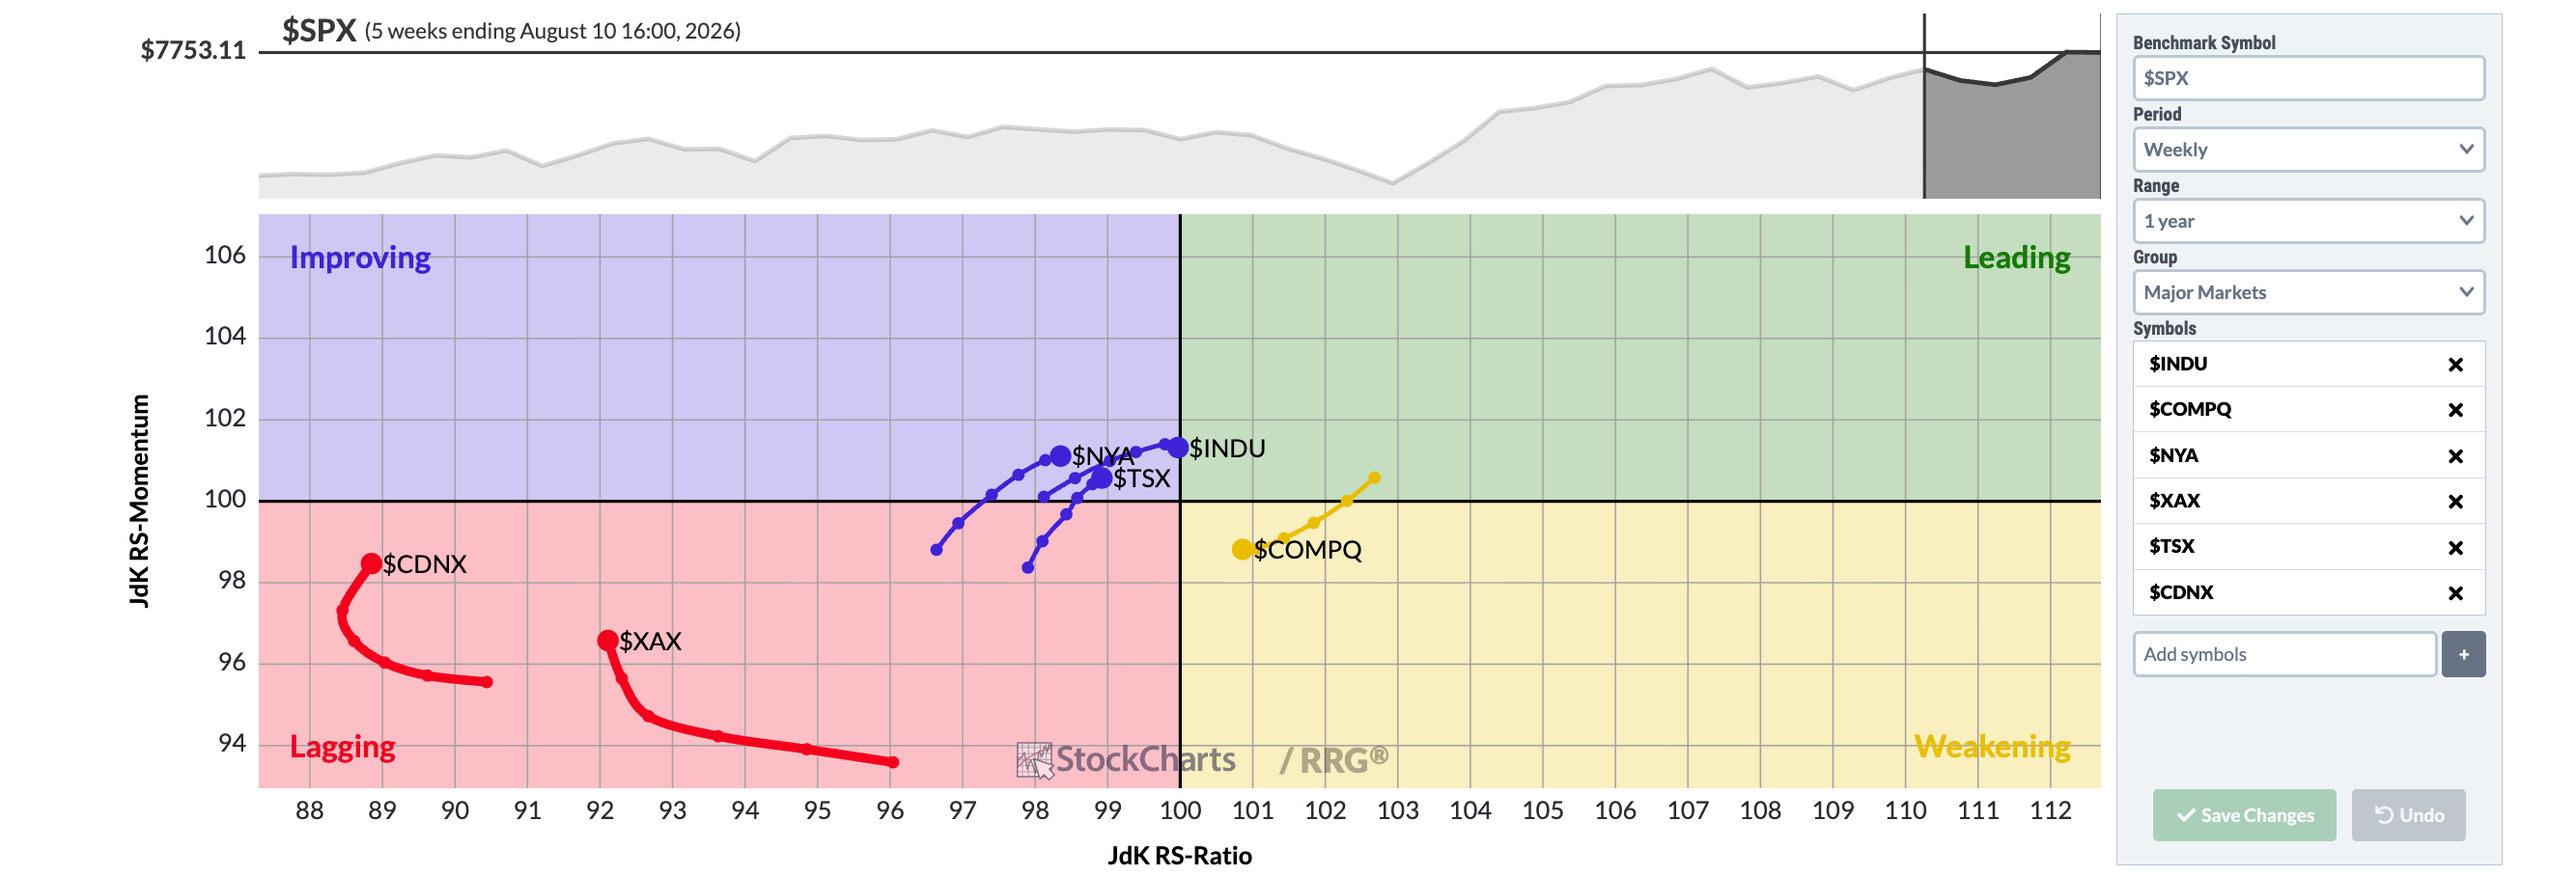
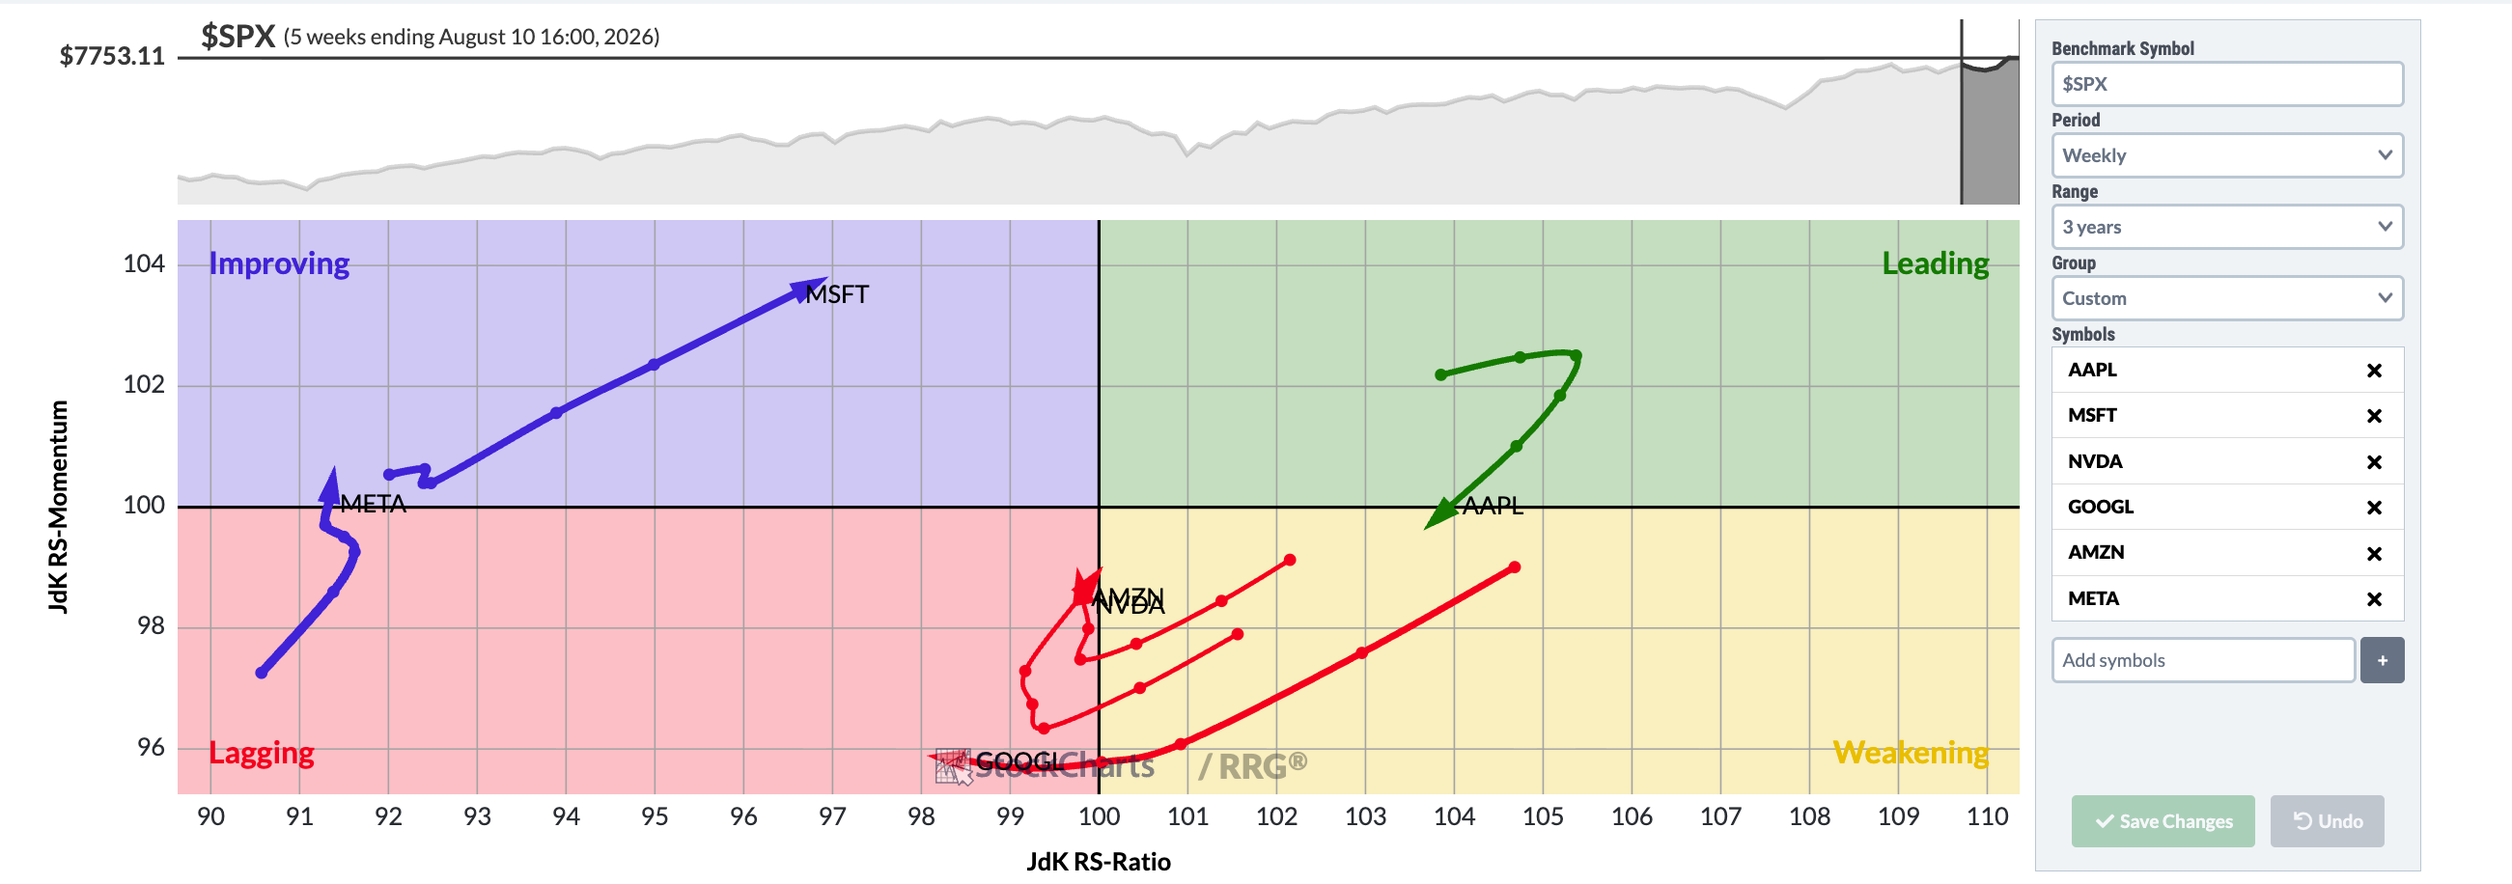
RRG: swap in publisher's daily-sector and megacap captures, align prose and alts

diff --git a/m06-c04.md b/m06-c04.md
@@ -20,7 +20,7 @@ permalink: /m06/c04/
 - What a cluster of similar stocks on the map tells you
 </div>
 
-So far our map carried sectors, big baskets holding hundreds of companies. But nothing stops you from putting individual stocks on an RRG. Instead of "technology" as a basket, you can plot Apple itself, Microsoft, Nvidia, and Tesla, all measured against the S&P 500. On StockCharts you simply type the tickers into the RRG tool, with SPY as the benchmark in the middle.
+So far our map carried sectors, big baskets holding hundreds of companies. But nothing stops you from putting individual stocks on an RRG. Instead of "technology" as a basket, you can plot Apple itself, Microsoft, Nvidia, Alphabet, Amazon, and Meta, all measured against the S&P 500. On StockCharts you simply type the tickers into the RRG tool, with the S&P 500 index, $SPX, as the benchmark in the middle.
 
 It is the difference between tracking whole school houses in a sports competition and tracking individual players. Houses move steadily because one player's off day barely matters. Individual players swing wildly.
 
@@ -36,18 +36,18 @@ On the RRG this means:
 
 ## A worked example: Apple versus the giants
 
-Picture an RRG with SPY at the centre and five dots: Apple (AAPL), Microsoft (MSFT), Nvidia (NVDA), Tesla (TSLA), and Coca-Cola (KO). Suppose it shows this:
+Picture an RRG with the S&P 500 index, $SPX, at the centre and six dots: Apple (AAPL), Microsoft (MSFT), Nvidia (NVDA), Alphabet (GOOGL), Amazon (AMZN), and Meta (META). Our capture, weekly over three years, shows this:
 
-- **Nvidia** deep in Leading, tail still pointing up and right: beating the market and accelerating away from it.
-- **Apple** in Weakening, tail bending down toward the centre: still ahead of the S&P 500 over the measured period, but its lead is shrinking.
-- **Tesla** in Lagging with a wiggly tail that loops in circles: behind the market, with no clear direction.
-- **Coca-Cola** in Improving, tail climbing steadily: behind the market but closing the gap, the quiet underdog finding form.
+- **Microsoft** in Improving, tail climbing up and right toward the Leading border: still behind the market over the measured period, but closing the gap fast.
+- **Apple** in Leading, with its tail curling underneath it: ahead of the S&P 500, though the bend warns that no lead is guaranteed.
+- **Nvidia** and **Amazon** in Weakening, tails bending down: still ahead of the market, but their leads are shrinking.
+- **Alphabet** and **Meta** in Lagging, Meta sitting near the Improving border: behind the market, with Meta showing the first flicker of recovery.
 
-![The Major Markets map over a one year range]({{ "/assets/shots/rrg-aapl-vs-spy.png" | relative_url }})
+![Apple, Microsoft, Nvidia, Alphabet, Amazon and Meta on the weekly RRG against the S&P 500, three years of history, settings panel shown]({{ "/assets/shots/rrg-aapl-vs-spy.png" | relative_url }})
 *Chart courtesy of StockCharts.com. RRG and Relative Rotation Graphs are registered trademarks of RRG Research.*
-This picture currently shows the Major Markets map over one year while the Apple-versus-SPY version is being recaptured by hand; it is coming. The reading rule is identical for stocks and indices: every dot is judged against the benchmark at the centre, and its quadrant describes a gap with the market, not whether a price went up or down.
+The settings panel shows the recipe: benchmark $SPX, weekly period, three year range. The reading rule is identical for stocks and indices: every dot is judged against the benchmark at the centre, and its quadrant describes a gap with the market, not whether a price went up or down.
 
-The notebook sentence: "Among the giants, momentum currently favours Nvidia and is improving for Coca-Cola; Apple's leadership is cooling." Again, pure description. No instruction.
+The notebook sentence: "Among the giants, momentum currently favours Microsoft, Meta is stirring in Lagging, and Nvidia and Amazon are cooling." Again, pure description. No instruction.
 
 ## The cluster trick
 
@@ -61,13 +61,13 @@ Use this page alongside the RRG: the RRG shows Apple's position in the race, thi
 <div class="try" markdown="1">
 **Try it yourself**
 
-In the StockCharts RRG tool, replace the sector list with these tickers: AAPL, MSFT, NVDA, TSLA, KO, against SPY. Take a screenshot or sketch the positions. Write one sentence per stock: quadrant, tail direction, plain meaning. Save it and redo the exercise in two weeks to see what rotated.
+In the StockCharts RRG tool, replace the sector list with these tickers: AAPL, MSFT, NVDA, GOOGL, AMZN, META, against $SPX. Take a screenshot or sketch the positions. Write one sentence per stock: quadrant, tail direction, plain meaning. Save it and redo the exercise in two weeks to see what rotated.
 </div>
 
 <div class="takeaways" markdown="1">
 **Key takeaways**
 
-- You can plot single stocks on an RRG with SPY (the S&P 500) as the benchmark at the centre.
+- You can plot single stocks on an RRG with $SPX (the S&P 500 index) as the benchmark at the centre.
 - Single stocks rotate faster and reverse more often than sectors; their tails are noisier.
 - A stock's quadrant describes its gap with the market, never whether you should own it.
 - A whole cluster rotating together signals a broad mood shift; one stock rotating alone signals company-specific news.

diff --git a/m06-c03.md b/m06-c03.md
@@ -37,9 +37,9 @@ The classic pattern, and it really is common, is **clockwise**:
 
 Serious readers work out a dot's **heading**: the direction it travels, computed from the change in momentum versus the change in ratio. Position is the address; heading is the arrow. Our house rule: a name in Leading heading south, down toward Weakening, is excluded, not shortlisted. Trajectory matters more than position.
 
-![The Major Markets map over a one year range]({{ "/assets/shots/rrg-sectors-daily.png" | relative_url }})
+![The S&P sector ETFs on the daily RRG, one year of history]({{ "/assets/shots/rrg-sectors-daily.png" | relative_url }})
 *Chart courtesy of StockCharts.com. RRG and Relative Rotation Graphs are registered trademarks of RRG Research.*
-This copy currently shows the Major Markets map over one year; the daily version is being recaptured by hand and is coming. The skill is the same on any version: find tails curling clockwise, Improving up toward Leading or Leading down toward Weakening. Those curls are rotations in progress.
+Here are the S&P sector ETFs on the daily RRG, one year of tails measured against the S&P 500. The skill: find tails curling clockwise, Improving up toward Leading or Leading down toward Weakening. Those curls are rotations in progress.
 
 ## A worked example, in words
 
@@ -58,7 +58,7 @@ Read the weekly first for the big picture, then the daily for detail. If they di
 
 ![The Major Markets map on the weekly RRG, three years of it]({{ "/assets/shots/rrg-sectors-weekly.png" | relative_url }})
 *Chart courtesy of StockCharts.com. RRG and Relative Rotation Graphs are registered trademarks of RRG Research.*
-Compare this weekly, three year view with the one year view above: the longer window smooths the tails, and quadrant positions can differ. Three years of tails show where each index has travelled from, not just where it sits.
+Compare the calm of this weekly, three year view with the twitchier daily view above: the longer window smooths the tails, and a name's quadrant can differ between timeframes. Three years of tails show where each index has travelled from, not just where it sits.
 
 <div class="try" markdown="1">
 **Try it yourself**

diff --git a/m06-c06.md b/m06-c06.md
@@ -32,9 +32,9 @@ When the whole market moves sideways, up a little, down a little, with no real t
 
 Sideways markets produce these constantly. The weekly view filters out some noise, not all. Act on every Improving-to-Leading crossing in a flat market and you get churned to bits, buying excitement that evaporates within days. This is not a rare edge case; choppy, trendless stretches are a large part of market life.
 
-![The Major Markets map over a one year range]({{ "/assets/shots/rrg-sectors-daily.png" | relative_url }})
+![The S&P sector ETFs on the daily RRG, one year of history]({{ "/assets/shots/rrg-sectors-daily.png" | relative_url }})
 *Chart courtesy of StockCharts.com. RRG and Relative Rotation Graphs are registered trademarks of RRG Research.*
-This copy currently shows the Major Markets map over one year while the daily version is being recaptured. Even here, watch for tails that double back; on a daily chart those reversals are constant, and each would be a false alarm if treated as a fresh trend.
+Here is the daily sector view: the S&P sector ETFs measured against the S&P 500 over one year. Watch for tails that double back; on a daily chart those reversals are constant, and each would be a false alarm if treated as a fresh trend.
 
 ![The Major Markets map, weekly, over three years, the calmer view]({{ "/assets/shots/rrg-sectors-weekly.png" | relative_url }})
 *Chart courtesy of StockCharts.com. RRG and Relative Rotation Graphs are registered trademarks of RRG Research.*

diff --git a/m06-c05.md b/m06-c05.md
@@ -46,9 +46,9 @@ This is also how our own newsletter works, with one extra test. It starts from t
 
 Sometimes the RRG shows a fine company sinking into Lagging. Filings may reveal why: perhaps profits fell, or a big risk appeared. But sometimes the filings look solid and the crowd is simply distracted by shinier stories. That gap, good business plus cold crowd, is interesting too, though a Lagging stock can stay Lagging for a very long time, so interest is not a green light either.
 
-![The Major Markets map over a one year range]({{ "/assets/shots/rrg-aapl-vs-spy.png" | relative_url }})
+![Apple, Microsoft, Nvidia, Alphabet, Amazon and Meta on the weekly RRG against the S&P 500]({{ "/assets/shots/rrg-aapl-vs-spy.png" | relative_url }})
 *Chart courtesy of StockCharts.com. RRG and Relative Rotation Graphs are registered trademarks of RRG Research.*
-This copy currently shows the Major Markets map over one year while the single-stock version is recaptured. The habit is the same: treat any dot crossing into Leading as a prompt to research, never as a decision by itself.
+Six megacaps against the S&P 500 on the weekly RRG; the panel shows the recipe: benchmark $SPX, weekly period, three year range. The habit is the same: treat any dot crossing into Leading as a prompt to research, never as a decision by itself.
 
 <div class="try" markdown="1">
 **Try it yourself**

diff --git a/m06-c02.md b/m06-c02.md
@@ -56,9 +56,9 @@ Notice how the big indices, the Dow, the Nasdaq Composite, the NYSE Composite an
 
 Watch the map over a few weeks and something lovely appears: stocks and sectors tend to travel **clockwise**. Improving turns into Leading, Leading cools into Weakening, Weakening sinks into Lagging, Lagging recovers into Improving. That circular journey gives the graph its name; chapter 3 reads those journeys in detail.
 
-![The same Major Markets map over a one year range]({{ "/assets/shots/rrg-sectors-daily.png" | relative_url }})
+![The S&P sector ETFs on the daily RRG, one year of history, settings panel shown]({{ "/assets/shots/rrg-sectors-daily.png" | relative_url }})
 *Chart courtesy of StockCharts.com. RRG and Relative Rotation Graphs are registered trademarks of RRG Research.*
-This copy currently shows the same Major Markets map over one year instead of three; a daily version is being recaptured by hand and is coming. Even so, the shorter window changes where each index sits: the timeframe is part of the message.
+This second view swaps the big indices for the S&P sector ETFs, measured against the S&P 500 on the faster daily timeframe over a one year range; the panel shows the recipe: benchmark $SPX, daily period. The window changes where each name sits: the timeframe is part of the message.
 
 <div class="try" markdown="1">
 **Try it yourself**

diff --git a/m10-c05.md b/m10-c05.md
@@ -49,7 +49,7 @@ Notice how precise the target prices look: an analyst is a professional paid to 
 ![An RRG chart of Apple and other large companies against the S&P 500]({{ "/assets/shots/rrg-aapl-vs-spy.png" | relative_url }})
 *Chart courtesy of StockCharts.com. RRG and Relative Rotation Graphs are registered trademarks of RRG Research.*
 
-Notice how Apple's line loops around the S&P 500 (a list of 500 big US companies used as "the market"): sometimes leading, sometimes lagging. The leading stretches are FOMO bait. The lagging stretches test your loss aversion.
+Notice how Apple's trail sits in Leading against the S&P 500 (a list of 500 big US companies used as "the market"), with its tail already curling: even the biggest names rotate through the quadrants over time. The leading stretches are FOMO bait. The lagging stretches test your loss aversion.
 
 ## The honest part
 
